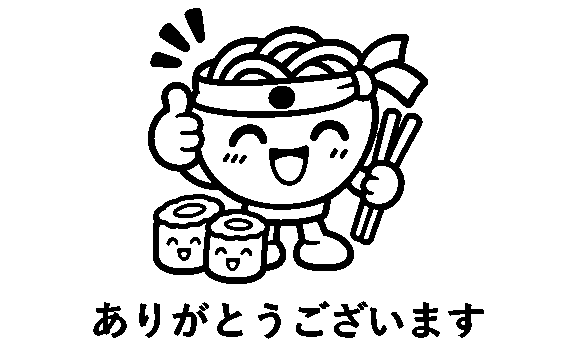
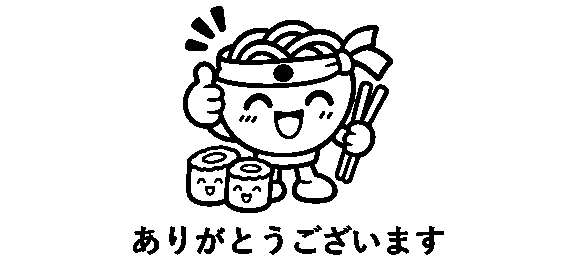
Impressora USB: rodape bem menor (33mm, antes 44mm) e sempre a imagem mais nova (cache no-cache)
- public/recibo/rodape.png: 576x265 pontos (~33mm) em vez de 576x352 (44mm): personagem 280 -> 210 pontos, texto 40 -> 32, margens menores. Mesmo desenho, ainda legivel.
- printer.ts: o rodape e buscado com cache "no-cache": o navegador pergunta ao servidor se a imagem mudou. Antes ele podia reaproveitar por minutos a imagem antiga depois de uma troca (o dono imprimiu e saiu no tamanho antigo).

Changed region(s): [[0.25, 0.0, 0.75, 0.8151], [0.1562, 0.8453, 0.8438, 0.966]]

diff --git a/src/admin/printer.ts b/src/admin/printer.ts
@@ -327,7 +327,8 @@ export function loadReceiptFooter(): Promise<Uint8Array | null> {
   footerPromise ??= (async () => {
     try {
       if (typeof fetch !== "function" || typeof createImageBitmap !== "function" || typeof document === "undefined") return null;
-      const response = await fetch(RECEIPT_FOOTER_URL, typeof AbortSignal !== "undefined" && "timeout" in AbortSignal ? { signal: AbortSignal.timeout(4000) } : undefined);
+      // cache: "no-cache" = pergunta ao servidor se a imagem mudou (resposta curta quando não mudou). Sem isso o navegador podia reaproveitar por minutos a imagem antiga depois de uma troca.
+      const response = await fetch(RECEIPT_FOOTER_URL, { cache: "no-cache", ...(typeof AbortSignal !== "undefined" && "timeout" in AbortSignal ? { signal: AbortSignal.timeout(4000) } : {}) });
       if (!response.ok) return null;
       const bitmap = await createImageBitmap(await response.blob());
       const canvas = document.createElement("canvas");
